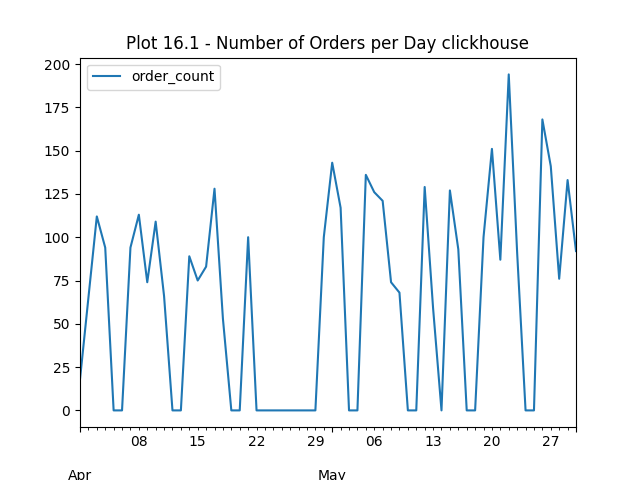
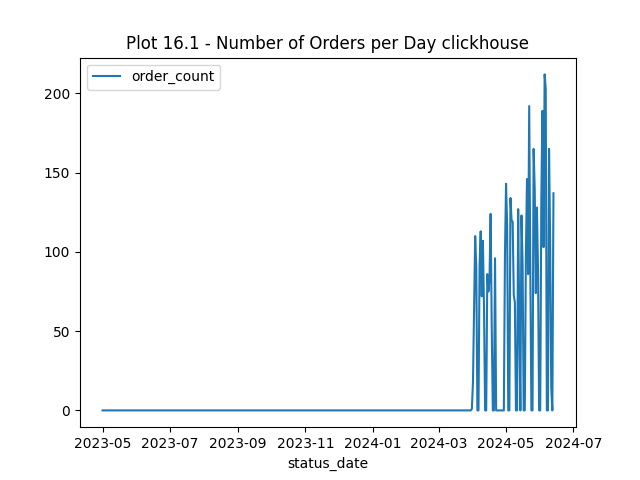
fix for badim 1.111

diff --git a/report_for_rafael_badim_every_month.py b/report_for_rafael_badim_every_month.py
@@ -10,14 +10,14 @@ username = os.environ['CLICKHOUSE_USERNAME']
 port = int(os.environ['CLICKHOUSE_PORT'])
 host = os.environ['CLICKHOUSE_HOST']
 ######
-start_date = '2024-04-01'
-end_date = '2024-05-30'
-agg_time_freq = 'no_agg'
+start_date = '2023-05-01'
+end_date = '2024-06-13'
+agg_time_freq = 'M'
 order_status = ['בוצעה', 'שולמה', 'מבוטלת']
 items = []
 units = ['מטר']
 supply_orders_status = ['שוחרר']
-inv_mov_types = ['החזרה מלקוח','חשבוניות מס', 'משלוחים ללקוח']
+inv_mov_types = ['החזרה מלקוח','חשבוניות מס', 'דאטה מסאפ','משלוחים ללקוח']
 ########
 print(password, username, port, host)
 client = 'badim'
@@ -1193,9 +1193,6 @@ plt.legend()
 plt.show()
 
 
-# raise stop
-
-raise print("stop")
 ##############################################################################################################################
 orders_df = client.query_dataframe(f'''
     SELECT 
@@ -1436,17 +1433,30 @@ FROM
     silver_badim.stock_log
 WHERE
     toDate(update_date) >= toDate('{start_date}') AND toDate(update_date) <= toDate('{end_date}')
-    AND {filter_for_query('item', items)}
-    AND {filter_for_query('unit', units)}
-    AND {filter_for_query('inv_mov_type', inv_mov_types)}
+    {filter_for_query('item', items)}
+    {filter_for_query('unit', units)}
+    {filter_for_query('inv_mov_type', inv_mov_types)}
 GROUP BY    
     agg_date    
 ORDER BY
     agg_date
 """
-
+print("query_19", query_19)
 plot_19_data_clickhouse = client.query_dataframe(query_19)
 plot_19_data_clickhouse['agg_date'] = pd.to_datetime(plot_19_data_clickhouse['agg_date'])
 plot_19_data_clickhouse = plot_19_data_clickhouse.set_index('agg_date').reindex(pd.date_range(start=start_date, end=end_date)).fillna(0).resample(agg_date_update).sum()
 print("plot 19 data clickhouse", plot_19_data_clickhouse)
+
+# plot time series of total quantity
+plt.figure(figsize=(10, 5))
+plt.plot(plot_19_data_clickhouse['total_quantity'], label='Total Quantity', color='blue')
+plt.xlabel('Date')
+plt.ylabel('Total Quantity from Stock')
+plt.title('Plot 19 - Total Quantity Over Time clickhouse')
+plt.legend()
+plt.grid(True)
+# save plot 19 to png
+plt.savefig('plot19.png')
+plt.show()
+
 
